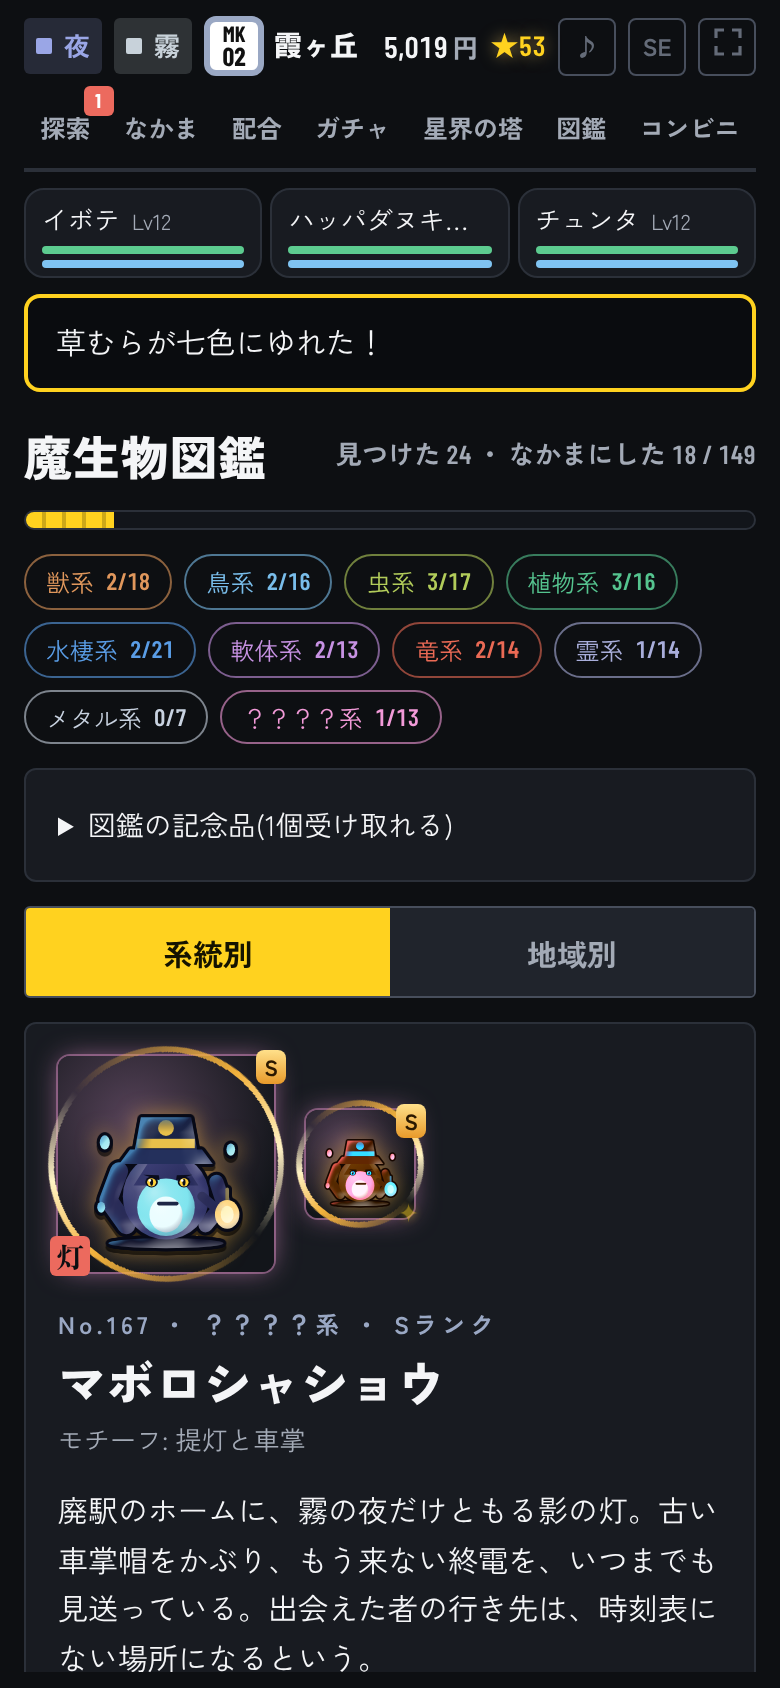
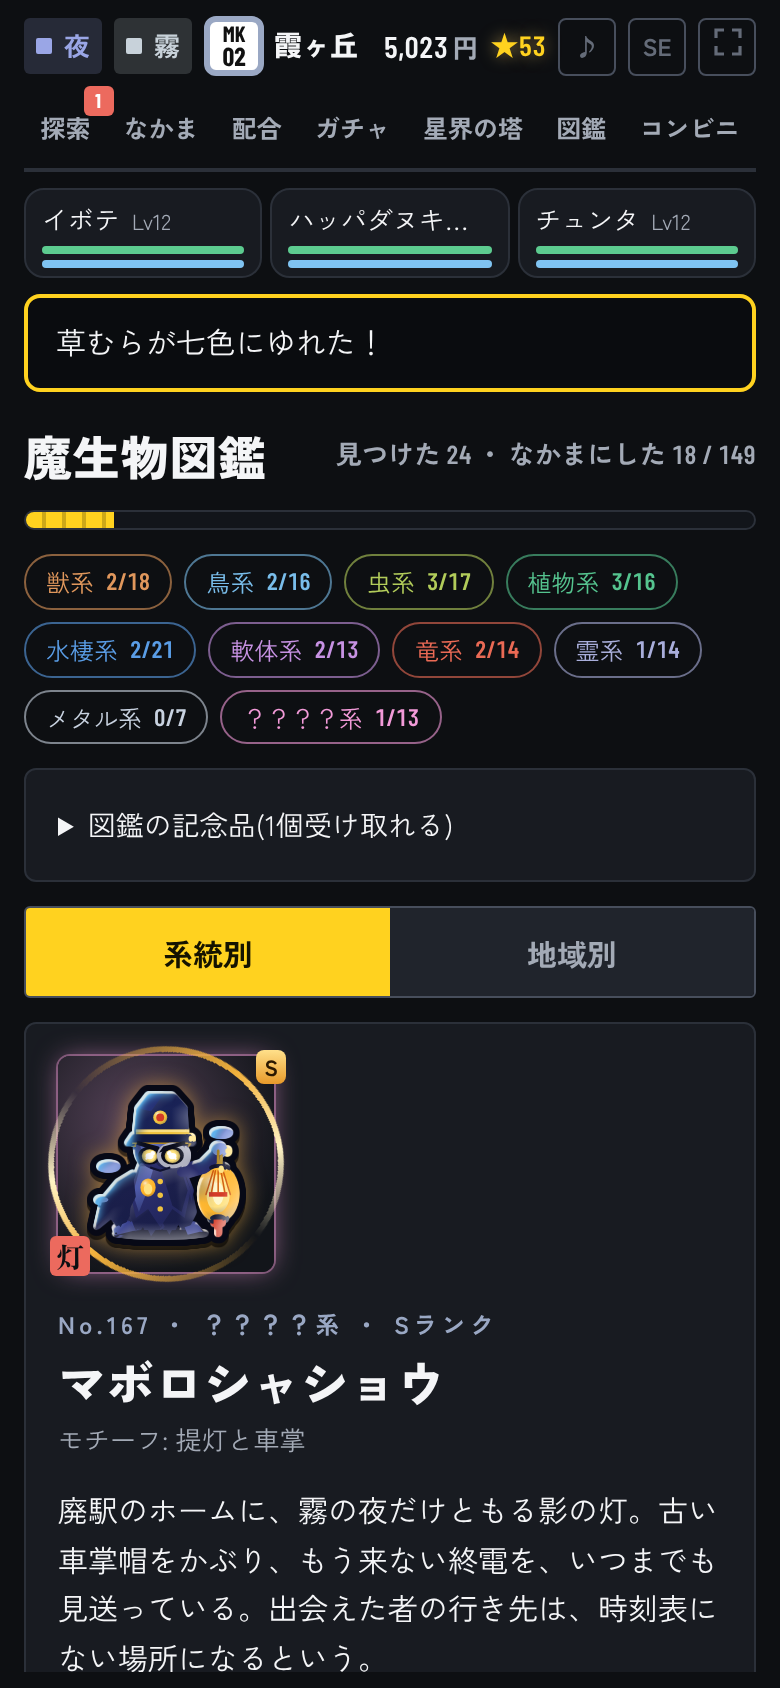
マボロシャショウの比較画像・一覧・スクショ・art_check・出どころを更新

Changed region(s): [[0.0923, 0.6161, 0.3385, 0.7701], [0.3692, 0.6469, 0.5538, 0.7393]]

diff --git a/docs/update/art_check.md b/docs/update/art_check.md
@@ -1,29 +1,29 @@
 # 魔生物 自動規格チェック(ART_BIBLE 10章)
 
-- 実行: `node tools/art_check.js`(Playwright で全 166 種の通常・色違いを描き出して判定。上位形 4 種は通常形との成長も判定)
+- 実行: `node tools/art_check.js`(Playwright で全 167 種の通常・色違いを描き出して判定。上位形 4 種は通常形との成長も判定)
 - 描画: 192px、外ふち 6px、トイ・フィギュア調(`ART_STYLE`)
 - pageerror: 0 件
 
 ## 結果
 
-**項目1〜11をすべて満たした種: 166 / 166**(項目12の色数を含めた全項目では 43 / 166)
+**項目1〜11をすべて満たした種: 167 / 167**(項目12の色数を含めた全項目では 43 / 167)
 
 | # | 項目 | 合格 | 判定した数 |
 |---|---|---|---|
-| 1 | 描画エラー | 166 | 166 |
-| 2 | 不透明率30〜60% | 166 | 166 |
-| 3 | 外接矩形の長辺150px以上 | 166 | 166 |
-| 4 | 余白(上左右12/下13) | 166 | 166 |
-| 5 | アンカー | 166 | 166 |
-| 6 | 目(eyeC≥1・最大sz≥0.8) | 166 | 166 |
-| 7 | 48px 縁の輝度≥60 | 166 | 166 |
-| 8 | 48px 輝度の散らばり≥35 | 166 | 166 |
-| 9 | シルエット判別 IoU≤0.80 | 166 | 166 |
+| 1 | 描画エラー | 167 | 167 |
+| 2 | 不透明率30〜60% | 167 | 167 |
+| 3 | 外接矩形の長辺150px以上 | 167 | 167 |
+| 4 | 余白(上左右12/下13) | 167 | 167 |
+| 5 | アンカー | 167 | 167 |
+| 6 | 目(eyeC≥1・最大sz≥0.8) | 167 | 167 |
+| 7 | 48px 縁の輝度≥60 | 167 | 167 |
+| 8 | 48px 輝度の散らばり≥35 | 167 | 167 |
+| 9 | シルエット判別 IoU≤0.80 | 167 | 167 |
 | 10 | 上位形の成長 | 4 | 4 |
-| 11 | 色違いの差・金の逆光 | 166 | 166 |
-| 12 | 色数 4〜6(参考) | 43 | 166 |
+| 11 | 色違いの差・金の逆光 | 167 | 167 |
+| 12 | 色数 4〜6(参考) | 43 | 167 |
 
-- 項目2は、正方形の枠に収める都合で、縦横比の大きい種(1.6 超)は下限を 30%×(1.6÷縦横比) に下げて判定した。下限を一律 30% にしたときの合格は 165 / 166 種(通常・色違いとも)。
+- 項目2は、正方形の枠に収める都合で、縦横比の大きい種(1.6 超)は下限を 30%×(1.6÷縦横比) に下げて判定した。下限を一律 30% にしたときの合格は 166 / 167 種(通常・色違いとも)。
 - 項目12の色数は、既存の描画関数が色を 16 進で直書きしている(パレットのキー方式ではない)ため、面積 3% 以上の色を色相・明るさで丸めて数えた参考値。移行(ART_BIBLE 12章 4)で描き直す種から順にパレット化する。
 - 項目5のアンカーは、飛ぶ・浮く種も下端を y=178 にそろえている(全種共通)。
 - 項目11の「金の逆光」は、右下のふちの色(青−赤)が通常より小さい(=青くない)ことで確かめた。
@@ -113,7 +113,7 @@
 | kamaitachi | myst | 34.6/34.6% | 159 | 32/14/17/16 | 1/1.00 | 151/173 | 78/86 | 0.60(raiju) | 金 15°/45 | 3 | ○○○○○○○○○-○× |
 | nue | myst | 51.9/51.9% | 159 | 28/14/17/16 | 1/0.90 | 114/128 | 67/71 | 0.80(yatsumata) | 翠 128°/34 | 5 | ○○○○○○○○○-○○ |
 | yatagarasu | myst | 40.7/41.0% | 160 | 18/14/23/21 | 2/0.90 | 114/107 | 59/50 | 0.73(kagutsuchi) | 薔薇 101°/17 | 3 | ○○○○○○○○○-○× |
-| yatsumata | myst | 49.7/49.9% | 159 | 21/15/17/16 | 8/0.80 | 103/122 | 46/53 | 0.80(nue) | 金 76°/43 | 2 | ○○○○○○○○○-○× |
+| yatsumata | myst | 49.7/49.9% | 159 | 21/15/17/16 | 8/0.80 | 103/122 | 46/53 | 0.80(mabonokoshou) | 金 76°/43 | 2 | ○○○○○○○○○-○× |
 | sorakujira | myst | 55.8/55.8% | 159 | 20/14/17/16 | 1/0.90 | 143/159 | 76/79 | 0.77(nue) | 翠 54°/66 | 4 | ○○○○○○○○○-○○ |
 | hakugin | metal | 30.8/30.9% | 159 | 49/14/17/16 | 1/1.00 | 159/151 | 80/72 | 0.61(haganetsubu) | 銅 163°/36 | 2 | ○○○○○○○○○-○× |
 | yukimaru | bird | 31.3/31.5% | 160 | 31/14/17/15 | 2/0.90 | 140/150 | 87/86 | 0.63(kawasemin) | 翡翠 169°/15 | 4 | ○○○○○○○○○-○○ |
@@ -211,10 +211,11 @@
 | haikagura | dragon | 53.0/53.1% | 160 | 17/15/17/16 | 1/1.10 | 114/119 | 62/62 | 0.72(ryuuguu) | 瑠璃 164°/6 | 3 | ○○○○○○○○○-○× |
 | kumozumi | bug | 52.3/52.4% | 160 | 27/14/17/15 | 2/0.95 | 121/151 | 55/64 | 0.76(shikouchou) | 翡翠 96°/58 | 3 | ○○○○○○○○○-○× |
 | hoshikuzume | bird | 42.1/42.2% | 160 | 23/14/16/16 | 1/1.15 | 132/136 | 76/73 | 0.61(yomizuku) | 朱鷺 141°/17 | 3 | ○○○○○○○○○-○× |
+| mabonokoshou | myst | 51.4/51.6% | 161 | 17/14/17/16 | 2/1.20 | 108/110 | 62/54 | 0.80(yatsumata) | 薔薇 99°/16 | 3 | ○○○○○○○○○-○× |
 
-## 追記: 天候限定7体の描き直し(T1)
+## 追記: まぼろし駅の新種マボロシャショウの描き直し(T8)
 
-- 対象: amayadori, kirigarasu, nijimimizu, yukiwata, haikagura, kumozumi, hoshikuzume(いずれも `DRAW96` の高精細。通常・色違いとも描画エラー 0)
-- 7体を足した 166 種で項目1〜11を再判定し、**166 / 166 合格**(項目9 のシルエット判別は、アマヤドリを傘ごと斜めにかたむけ、クモリスミの羽を一枚の大きな雲形にして、シン・ゲンブ/オオゴマダラとの類似を IoU 0.80 以下に下げた)
-- 項目12(色数・参考)は 43 / 166。ニジミミズは七色が主題のため色数が多い
-- 比較画像: `docs/update/after/art_weather7.png`(通常・色違い × 192px・48px)。全種一覧 `art_all_*` は作り直し済み(最後のシートに7体)
+- 対象: mabonokoshou(`DRAW96` の高精細。古い車掌帽・影のコートの体・提灯。通常・色違いとも描画エラー 0)。色違いの型は myst の `bara`(薔薇。通常の藍色から色相が大きく離れる)
+- 167 種で項目1〜11を再判定し、**167 / 167 合格**(項目9 は、帽子を高く・提灯を大きく右へ出し・すそをせまくして、ヤツマタとの IoU を 0.80 以下にした)
+- 項目12(色数・参考)は 43 / 167。影の青・帽子の金・灯の橙で色数は多め
+- 比較画像: `docs/update/after/art_mabo.png`(通常・色違い × 192px・48px)。全種一覧 `art_all_*` は作り直し済み
